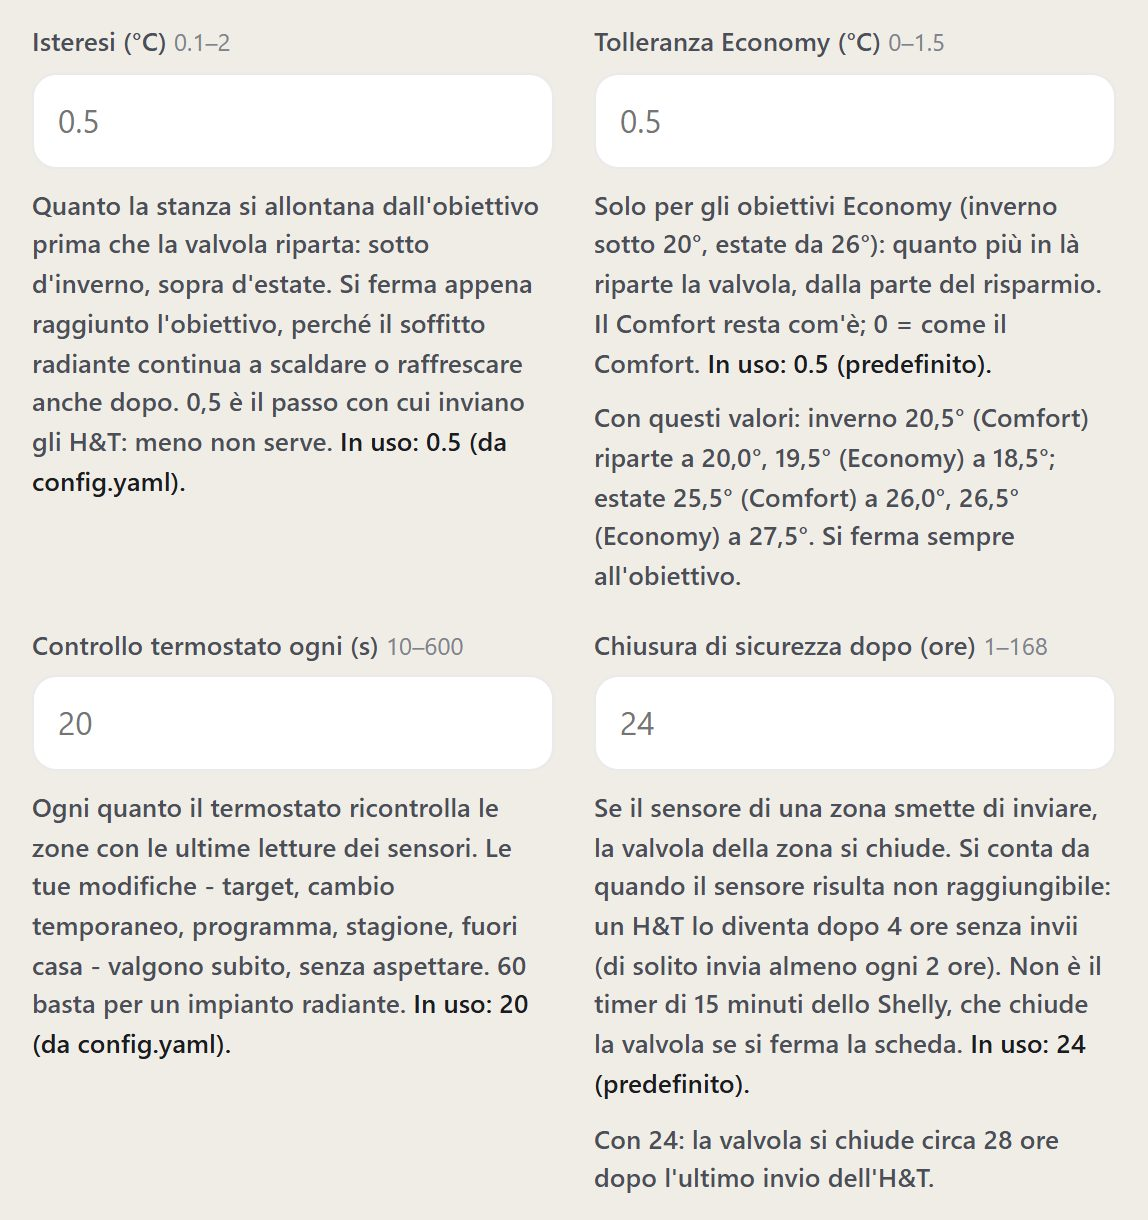
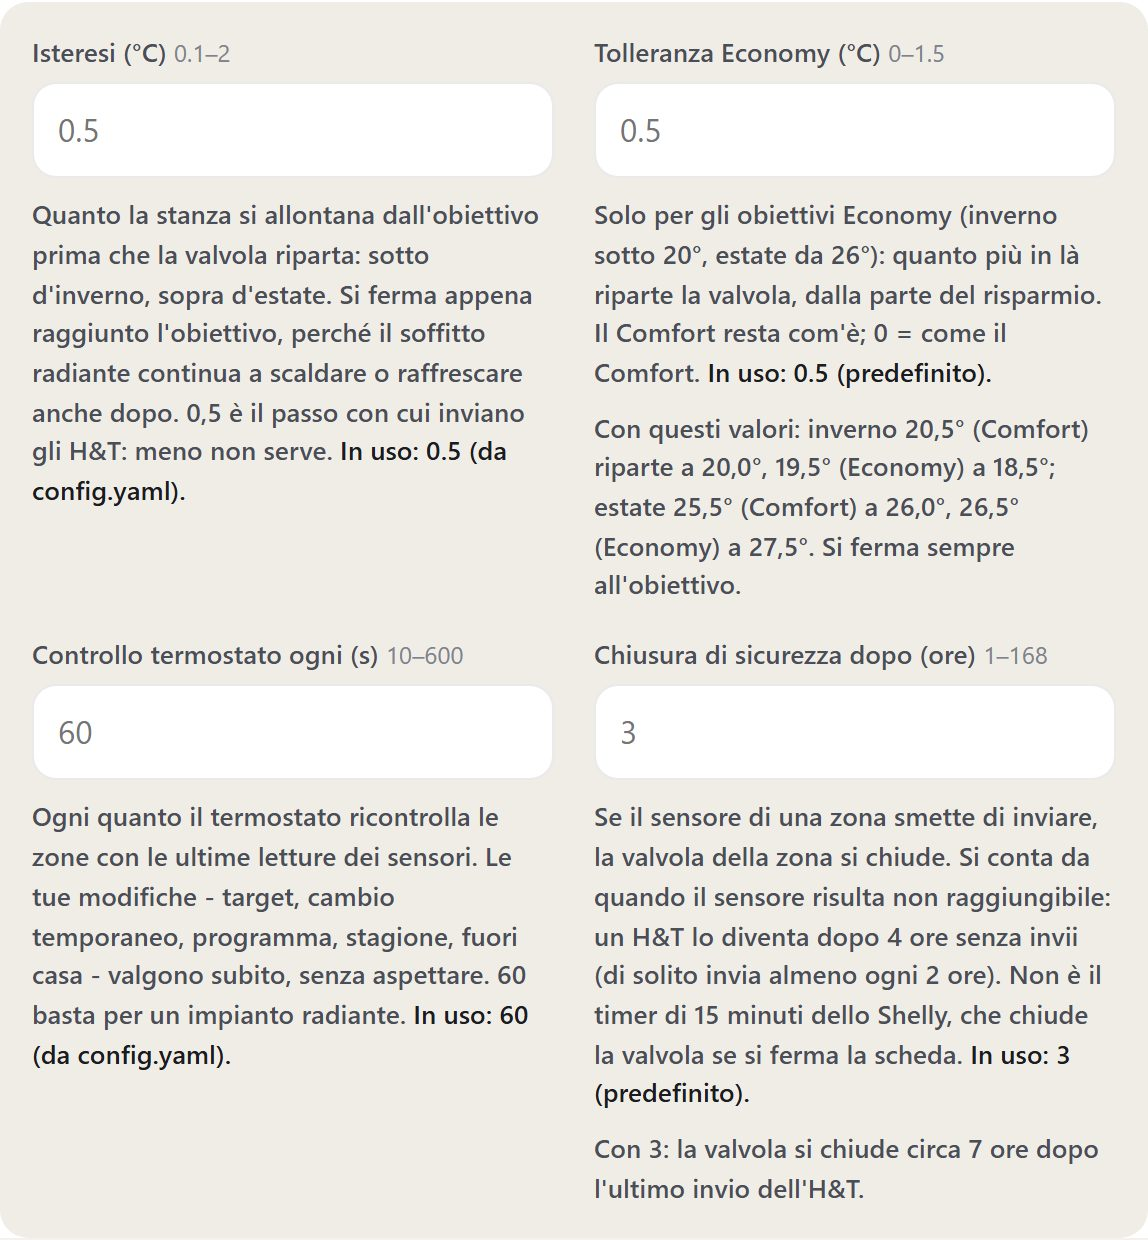
The safety close comes 3 hours after a sensor is unreachable, not 24
An H&T is unreachable after 4 hours without a report: its valve now
closes 7 hours after the last one instead of 28 - a radiant panel left
open blind for a day was too long. The default everywhere (the panel's
settings, the thermostat, the climate example config), the admin's
texts, the docs and the administrator's guide with its screen.

diff --git a/src/localhome/web/static/guide/shelly-plus1-valvole.html b/src/localhome/web/static/guide/shelly-plus1-valvole.html
@@ -369,7 +369,7 @@ Wi-Fi debole non è un problema finché gli invii arrivano.</p>
       (sotto d'inverno, sopra d'estate). 0,5 è il passo degli H&amp;T: meno non serve.</td></tr>
   <tr><td>Tolleranza Economy</td><td>0,5 °C. Per gli obiettivi Economy (inverno sotto 20°, estate da 26°) riparte ancora più
       in là: risparmio. 0 = come il Comfort.</td></tr>
-  <tr><td>Chiusura di sicurezza</td><td>24 ore. Sensore muto: la valvola si chiude (sezione 12).</td></tr>
+  <tr><td>Chiusura di sicurezza</td><td>3 ore, dopo le 4 senza invii: la valvola del sensore muto si chiude (sezione 12).</td></tr>
   <tr><td>Controllo termostato</td><td>60 s. Le modifiche dalla home valgono comunque subito.</td></tr>
 </table>
 <p>Esempio con i valori di serie: d'inverno a 20,5° (Comfort) riparte a 20,0°, a 19,5° (Economy) a 18,5°. Si salvano con
@@ -400,7 +400,7 @@ giorno/notte si sceglie dalla home, sulla scheda della VMC.</p>
   <tr><th>Situazione</th><th>Cosa fa LocalHome</th></tr>
   <tr><td>Sensore mai sentito (nuovo o rinominato)</td><td>Valvola chiusa. Premi il pulsante del sensore.</td></tr>
   <tr><td>Sensore che smette di inviare a valvola aperta</td><td>La lascia aperta; dopo 4 ore <em>Non risponde</em>, dopo altre
-      24 la chiude. Si abbassa in admin → Regolazioni impianto → <em>Chiusura di sicurezza</em> (minimo 1 ora).</td></tr>
+      3 la chiude. Si abbassa in admin → Regolazioni impianto → <em>Chiusura di sicurezza</em> (minimo 1 ora).</td></tr>
   <tr><td>Shelly che non risponde</td><td>Nessun comando a vuoto; al ritorno lo rimette nello stato giusto.</td></tr>
   <tr><td>Scheda ferma</td><td>Valvole e deumidificatore chiusi entro 15 minuti; bypass com'è.</td></tr>
   <tr><td>Bypass</td><td>Estate chiuso, inverno aperto: sempre, anche fuori casa.</td></tr>

diff --git a/src/localhome/services/panel_settings.py b/src/localhome/services/panel_settings.py
@@ -46,7 +46,7 @@ SETTINGS = {
     "thermostat_poll_seconds": {"section": "thermostat", "option": "poll_interval_seconds", "type": "int",
                                 "min": 10, "max": 600, "step": 10, "default": 60},
     "sensor_failsafe_hours": {"section": "thermostat", "option": "sensor_failsafe_hours", "type": "float",
-                              "min": 1, "max": 168, "step": 1, "default": 24},
+                              "min": 1, "max": 168, "step": 1, "default": 3},
     "history_retention_days": {"section": "history", "option": "retention_days", "type": "int",
                                "min": 1, "max": 365, "step": 1, "default": 30},
     "history_max_db_mb": {"section": "history", "option": "max_db_mb", "type": "int",

diff --git a/tests/test_panel_settings.py b/tests/test_panel_settings.py
@@ -56,7 +56,7 @@ def test_effective_values_say_where_they_come_from(tmp_path):
     rows = {r["key"]: r for r in panel_settings.effective(config, {"history_max_db_mb": 500})}
     assert (rows["history_max_db_mb"]["value"], rows["history_max_db_mb"]["source"]) == (500, "panel")
     assert (rows["hysteresis_c"]["value"], rows["hysteresis_c"]["source"]) == (0.5, "config")
-    assert (rows["sensor_failsafe_hours"]["value"], rows["sensor_failsafe_hours"]["source"]) == (24, "default")
+    assert (rows["sensor_failsafe_hours"]["value"], rows["sensor_failsafe_hours"]["source"]) == (3, "default")
 
 
 def test_saved_settings_apply_after_a_restart(tmp_path):

diff --git a/src/localhome/web/app.py b/src/localhome/web/app.py
@@ -301,7 +301,7 @@ def create_app(config_path: str | None = None) -> Flask:
             hysteresis_c=thermostat_cfg.get("hysteresis_c", 0.5),
             economy_tolerance_c=thermostat_cfg.get("economy_tolerance_c", 0.5),
             poll_interval_seconds=thermostat_cfg.get("poll_interval_seconds", 60),
-            sensor_failsafe_hours=thermostat_cfg.get("sensor_failsafe_hours", 24.0),
+            sensor_failsafe_hours=thermostat_cfg.get("sensor_failsafe_hours", 3.0),
             silence_file=config.resolve("sensor_silence.json"),
         )
         # The target each zone's valve was actually driven against, recorded

diff --git a/tests/test_climate_zones_api.py b/tests/test_climate_zones_api.py
@@ -111,7 +111,7 @@ def test_diagnostic_mode_defaults_to_false_in_the_zones_response(tmp_path):
     zone = next(z for z in body["zones"] if z["name"] == "Rooms")
     assert zone["sensor_failsafe_active"] is False
     assert zone["sensor_unreachable_hours"] is None
-    assert zone["sensor_failsafe_hours"] == 24.0
+    assert zone["sensor_failsafe_hours"] == 3.0
 
 
 def test_enabling_diagnostic_mode_via_the_api_is_reflected_back(tmp_path):

diff --git a/src/localhome/services/thermostat.py b/src/localhome/services/thermostat.py
@@ -456,7 +456,7 @@ class ThermostatController:
         zones: list[Zone],
         hysteresis_c: float = 0.5,
         poll_interval_seconds: float = 60,
-        sensor_failsafe_hours: float = 24.0,
+        sensor_failsafe_hours: float = 3.0,
         silence_file: str | None = None,
         economy_tolerance_c: float = 0.5,
     ):

diff --git a/docs/configuration.md b/docs/configuration.md
@@ -735,7 +735,8 @@ Telegram bot token or a phone being nearby:
   in `config/sensor_silence.json` so restarts don't restart the
   countdown, and time the board spent switched off doesn't count at all
   (the sensors were talking; nobody was listening). It is
-  configurable per-thermostat as `sensor_failsafe_hours` (default 24),
+  configurable per-thermostat as `sensor_failsafe_hours` (default 3 - an
+  H&T is unreachable after 4 hours, so 7 after its last report),
   it forces that zone's valve closed rather than leaving it frozen in
   whatever it was last doing indefinitely, and clears itself the moment
   the sensor reports again. The zone's card shows the countdown

diff --git a/CHANGELOG.md b/CHANGELOG.md
@@ -289,6 +289,11 @@ date rather than by tag.
   the previous season's palette in place until a reload.
 
 ### Changed
+- **The safety close comes 3 hours after a zone's sensor is unreachable,
+  not 24.** An H&T is unreachable after 4 hours without a report, so its
+  valve now closes 7 hours after the last one instead of 28 - a radiant
+  panel left open blind for a day was too long. Still set in the admin
+  panel (Plant tuning), from 1 hour up.
 - **A new board is the apartment's climate, every Shelly to configure.**
   With nothing saved in the admin panel and no zones of its own in
   config.yaml, a board starts with Stanze and Bagni (Bagni out of

diff --git a/docs/deployment.md b/docs/deployment.md
@@ -170,7 +170,7 @@ with the MQTT broker itself down:
 - its card and the admin panel's system status show it as not
   responding; nothing else changes;
 - the thermostat leaves a zone without a sensor reading alone, and after
-  `sensor_failsafe_hours` (24 by default) closes its valve;
+  `sensor_failsafe_hours` (3 by default) closes its valve;
 - a zone with no schedule for the current hour keeps its valve closed;
 - a device named in a season rule (`season_rules`, `mode_switches`,
   `mode_limited_switches`) that the
